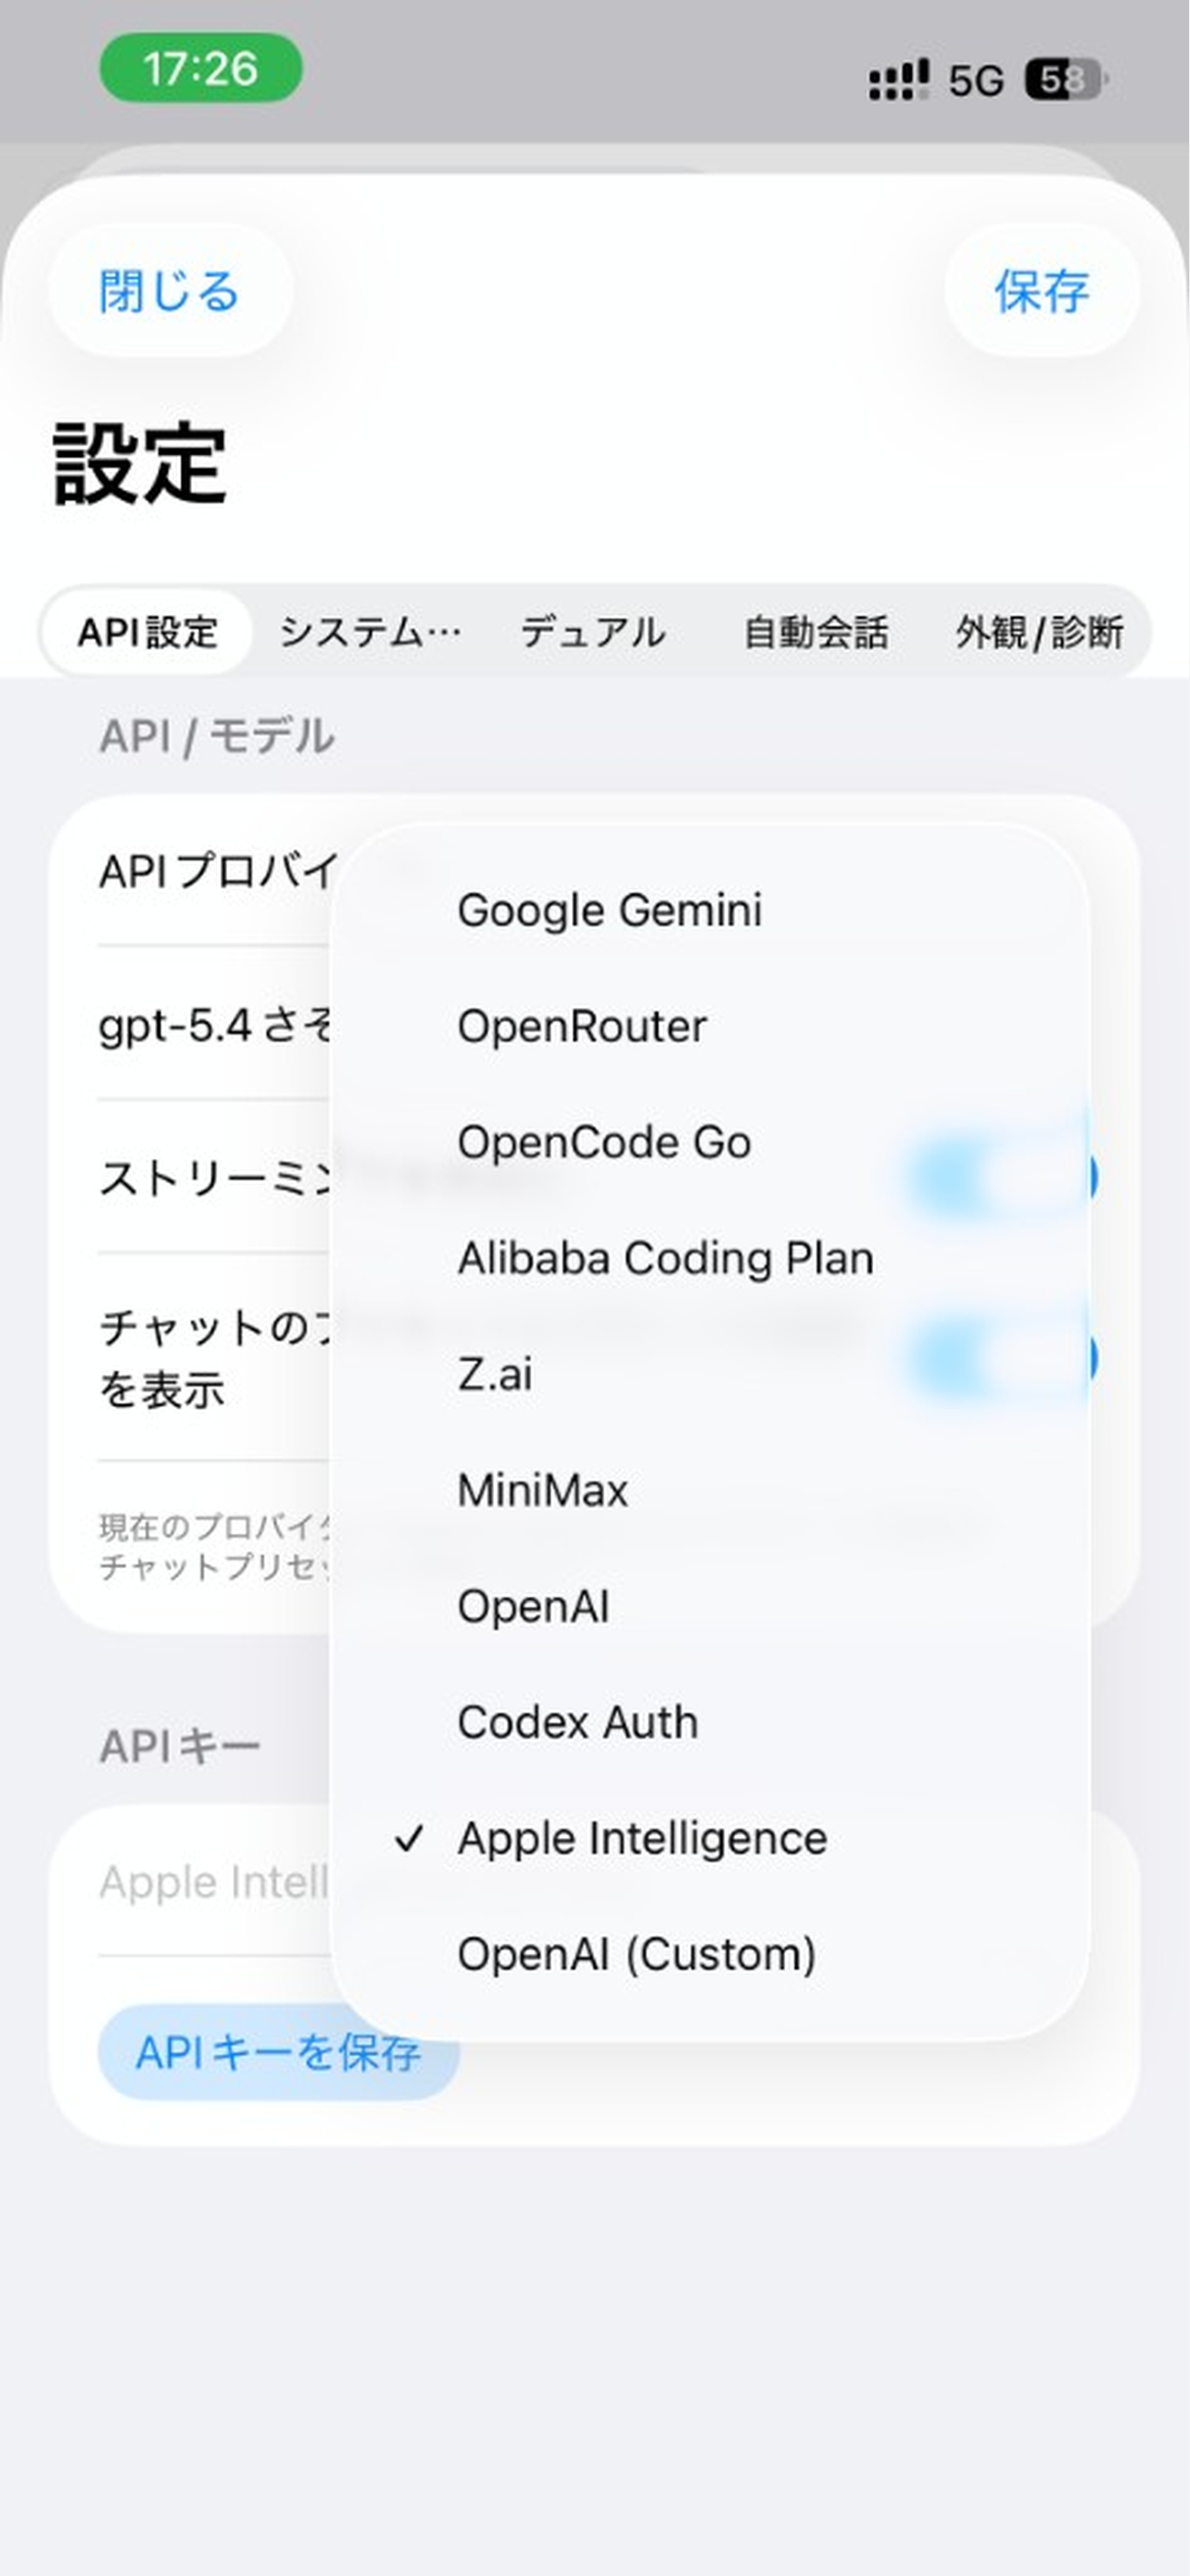
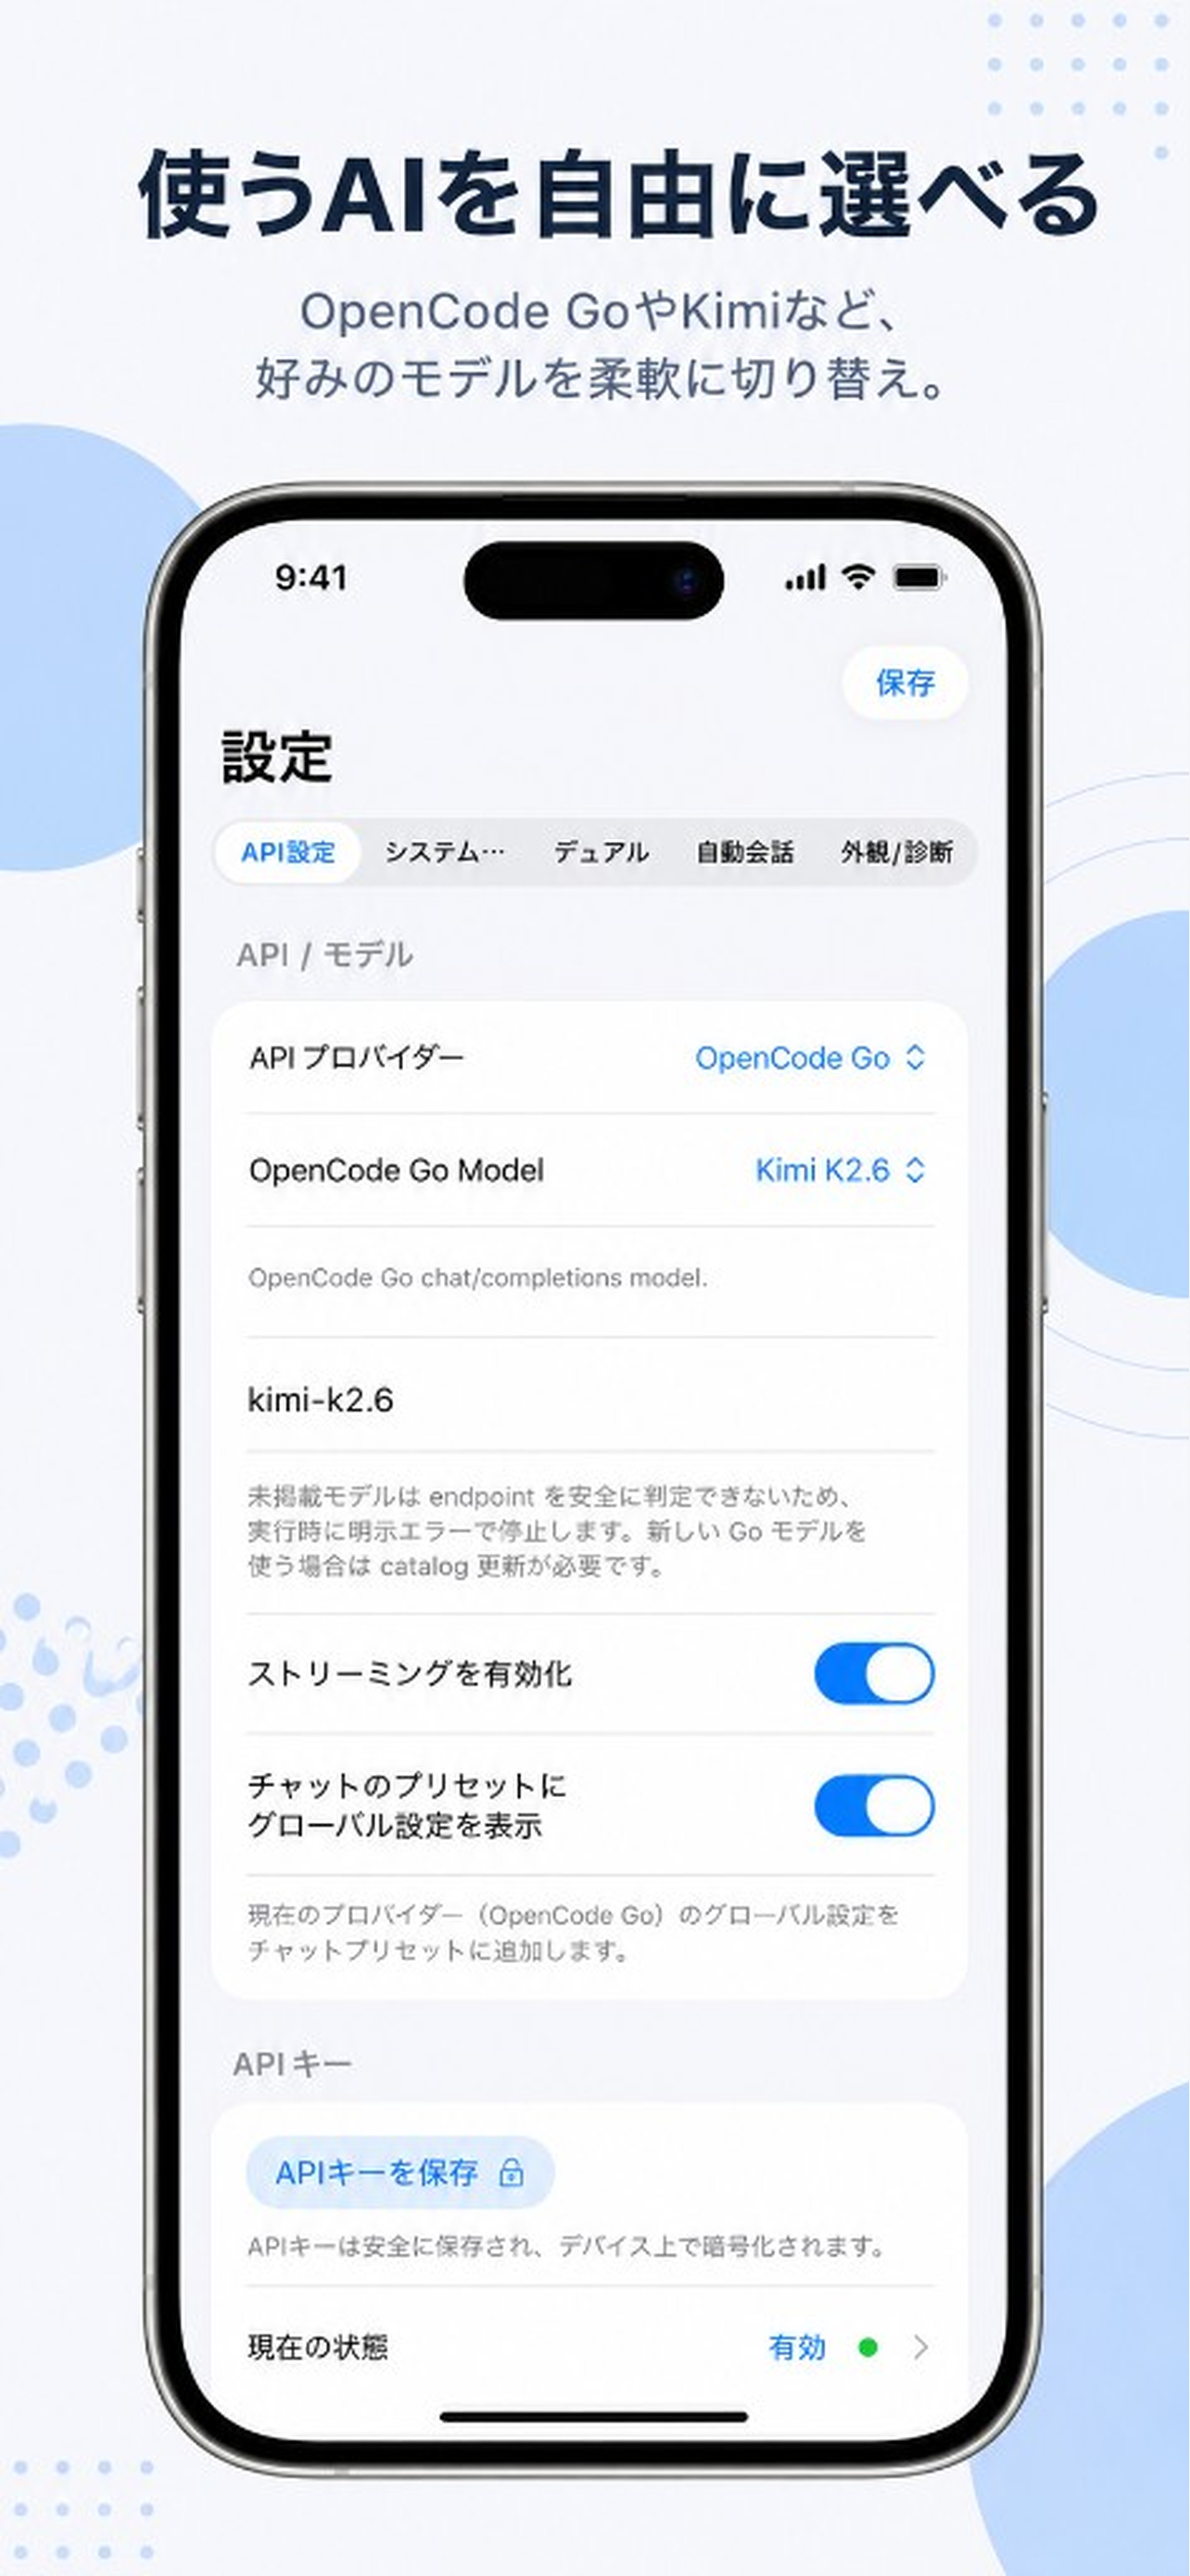
Fix YamabikoChat review rejection issues

diff --git a/ios/YamabikoChat/Features/Chat/MathMarkdownView.swift b/ios/YamabikoChat/Features/Chat/MathMarkdownView.swift
@@ -533,6 +533,14 @@ enum MathJaxLoadPlanner {
     }
 }
 
+private enum MathMarkdownDiagnostics {
+    static func logWarning(_ message: String) {
+        DispatchQueue.main.async {
+            DiagnosticsLogger.log(message, level: .warning, category: .chat)
+        }
+    }
+}
+
 struct MathMarkdownView: View {
     private static let minimumHeight: CGFloat = 44
 
@@ -1018,7 +1026,7 @@ private struct MathMarkdownWebView: UIViewRepresentable {
             in: .main,
             fallbackScript: fallbackMarkdownRendererScript
         ) { message in
-            DiagnosticsLogger.log(message, level: .warning, category: .chat)
+            MathMarkdownDiagnostics.logWarning(message)
         }
     }()
 
@@ -1096,7 +1104,7 @@ private struct MathMarkdownWebView: UIViewRepresentable {
             mathRenderingEnabled: mathRenderingEnabled,
             localScriptURL: localMathJaxURL
         ) { message in
-            DiagnosticsLogger.log(message, level: .warning, category: .chat)
+            MathMarkdownDiagnostics.logWarning(message)
         }
 
         let bodyTextColor = colorScheme == .dark ? "#F2F2F7" : "#1C1C1E"
@@ -1122,13 +1130,13 @@ private struct MathMarkdownWebView: UIViewRepresentable {
             let resourceDirectory = mathJaxLoadPlan.baseURL == nil
                 ? nil
                 : MathMarkdownWebResourceLoader.preparedResourceDirectory()
-            YamabikoWebKitSupport.loadHTMLDocument(
+            context.coordinator.scheduleHTMLLoad(
                 html,
                 resourceDirectory: resourceDirectory,
                 in: webView
             )
         } else {
-            context.coordinator.requestHeightMeasurement(for: webView)
+            context.coordinator.scheduleHeightMeasurement(for: webView)
         }
     }
 
@@ -1144,6 +1152,7 @@ private struct MathMarkdownWebView: UIViewRepresentable {
 
         var parent: MathMarkdownWebView
         var lastHTML: String?
+        private var pendingLoadToken = 0
 
         init(parent: MathMarkdownWebView) {
             self.parent = parent
@@ -1197,6 +1206,28 @@ private struct MathMarkdownWebView: UIViewRepresentable {
 
         func requestHeightMeasurement(for webView: WKWebView) {
             webView.evaluateJavaScript("window.__yamabikoSendHeight && window.__yamabikoSendHeight();", completionHandler: nil)
+        }
+
+        func scheduleHTMLLoad(_ html: String, resourceDirectory: URL?, in webView: WKWebView) {
+            pendingLoadToken += 1
+            let token = pendingLoadToken
+            DispatchQueue.main.async { [weak self, weak webView] in
+                guard let self, let webView, token == self.pendingLoadToken, self.lastHTML == html else {
+                    return
+                }
+                YamabikoWebKitSupport.loadHTMLDocument(
+                    html,
+                    resourceDirectory: resourceDirectory,
+                    in: webView
+                )
+            }
+        }
+
+        func scheduleHeightMeasurement(for webView: WKWebView) {
+            DispatchQueue.main.async { [weak self, weak webView] in
+                guard let self, let webView else { return }
+                self.requestHeightMeasurement(for: webView)
+            }
         }
 
         private func apply(height rawHeight: CGFloat) {

diff --git a/ios/scripts/resize-app-store-screenshots.py b/ios/scripts/resize-app-store-screenshots.py
@@ -8,10 +8,10 @@ from pathlib import Path
 from PIL import Image
 
 ROOT = Path(__file__).resolve().parents[1]
-ASSETS = ROOT.parent.parent / ".cursor/projects/Users-porari-kaihatu-ios-yamabikochat-ios/assets"
-# Fallback to workspace assets next to ios if the path above is missing
-if not ASSETS.exists():
-    ASSETS = Path("/Users/porari/.cursor/projects/Users-porari-kaihatu-ios-yamabikochat-ios/assets")
+ASSET_DIRS = [
+    Path.home() / ".cursor/projects/Users-porari-kaihatu-ios-yamabikochat/assets",
+    Path.home() / ".cursor/projects/Users-porari-kaihatu-ios-yamabikochat-ios/assets",
+]
 
 OUT = ROOT / "AppStoreScreenshots"
 BG = (245, 245, 247, 255)
@@ -32,22 +32,30 @@ JOBS = [
     ("ipad-13-inch", "01-split-empty.png", "simulator_screenshot_A538891C*.png", 2048, 2732),
     ("ipad-13-inch", "02-settings-api.png", "simulator_screenshot_30449E51*.png", 2048, 2732),
     ("ipad-13-inch", "03-settings-system-prompt.png", "simulator_screenshot_E134CA2B*.png", 2048, 2732),
-    ("iphone-6.5-inch", "01-settings-api.png", "IMG_1459*.png", 1284, 2778),
-    ("iphone-6.5-inch", "02-chat-story.png", "IMG_1460*.png", 1284, 2778),
-    ("iphone-6.5-inch", "03-settings-system-prompt.png", "IMG_1461*.png", 1284, 2778),
+    ("iphone-6.5-inch", "01-settings-api.png", "9CDD7159*.png", 1284, 2778),
+    ("iphone-6.5-inch", "02-chat-math.png", "74B73A4E*.png", 1284, 2778),
+    ("iphone-6.5-inch", "03-token-statistics.png", "7B9DD486*.png", 1284, 2778),
 ]
 
 
 def resolve_source(pattern: str) -> Path:
-    matches = sorted(ASSETS.glob(pattern))
-    if not matches:
-        raise FileNotFoundError(f"No asset matching {pattern} under {ASSETS}")
-    return matches[0]
+    for assets in ASSET_DIRS:
+        if not assets.exists():
+            continue
+        matches = sorted(assets.glob(pattern))
+        if matches:
+            return matches[0]
+    searched = ", ".join(str(d) for d in ASSET_DIRS)
+    raise FileNotFoundError(f"No asset matching {pattern} in [{searched}]")
 
 
 def main() -> None:
     for folder, name, pattern, width, height in JOBS:
-        src = resolve_source(pattern)
+        try:
+            src = resolve_source(pattern)
+        except FileNotFoundError as err:
+            print(f"Skip {folder}/{name}: {err}")
+            continue
         out_dir = OUT / folder
         out_dir.mkdir(parents=True, exist_ok=True)
         out = resize_fit_pad(Image.open(src).convert("RGBA"), width, height)

diff --git a/ios/AppStoreScreenshots/README.md b/ios/AppStoreScreenshots/README.md
@@ -7,9 +7,9 @@
 
 | ファイル | 内容 |
 |---------|------|
-| `01-settings-api.png` | API設定（プロバイダー選択） |
-| `02-chat-story.png` | チャット応答（小説生成） |
-| `03-settings-system-prompt.png` | システムプロンプト設定 |
+| `01-settings-api.png` | 使うAIを自由に選べる（API設定） |
+| `02-chat-math.png` | 数式もわかりやすく解説（極限の公式チャット） |
+| `03-token-statistics.png` | 利用状況をひと目で把握（トークン統計） |
 
 ## iPad（13インチディスプレイ）
 
